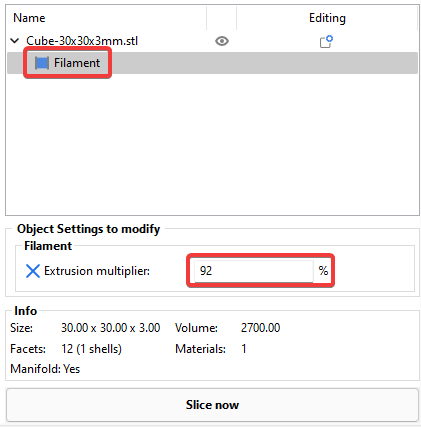
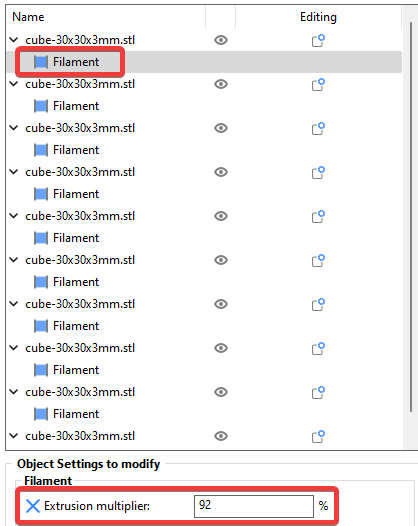
update

diff --git a/articles/extrusion_multiplier.md b/articles/extrusion_multiplier.md
@@ -104,20 +104,34 @@ We will print some 30x30x3mm cubes. *(see the [:page_facing_up:test_prints folde
         - There is no way to set the EM per object. You will have to print the test objects one at a time. 
 
     - **SuperSlicer:**
-        - **:warning: Make sure to set your EM to 1 in the filament settings.** \
-        The per-object EM settings are a percentage that is **multiplied by** the EM in your filament settings.
+        1) **:warning: Make sure to set your EM to 1 in the filament settings.** \
+        The per-object EM settings are a percentage that is **multiplied by** the EM in your filament settings.\
+        ![](/images/EM-1.png)
 
-        1) ![](/images/EM-1.png)
+        2) Right-click the cube and select add settings > filament.\
+        ![](/images/EM-PerObject.png)
 
-        2) ![](/images/EM-PerObject.png)
-
-        3) ![](/images/EM-PerObject-2.png)
+        3) Check "extrusion multiplier" and click "okay".\
+        ![](/images/EM-PerObject-2.png)
         
-        4) ![](/images/EM-PerObject-3.png)
+        4) Right-click the cube in the pane on the right, and select "set number of instances". In the prompt, enter your desired number of cubes.\
+        ![](/images/EM-Instances.png)
+
+        5) Select the first instance, hold shift, and then click the last instance (to select all of them). Right click and select "set as separated objects".\
+        ![](/images/EM-SeparateObjects.png)
+
+        6) This will automatically add the custom setting to all of your test cubes! Now go through each object and set an extrusion multiplier for each.\
+        ![](/images/EM-PerObject-3.png)
         
     - **Cura:**
 
-        1) ![](/images/EM-PerObject-Cura.png)
+        1) Import the STL and set per-object "flow" for it.\
+        ![](/images/EM-PerObject-Cura.png)
+
+        2) Right-click the cube and select "multiply selected". Enter your desired number of test cubes in the prompt.\
+        ![](/images/EM-Instances-Cura.png)
+
+        3) Go through each cube and set the EM on each. The setting should already be exposed on each object since we multiplied it.
 
 **2)** Inspect each cube. Once you are nearing the correct EM, the top should feel noticeably smoother. Too much EM will look and feel rougher, and too little EM will have gaps between the lines.
 
